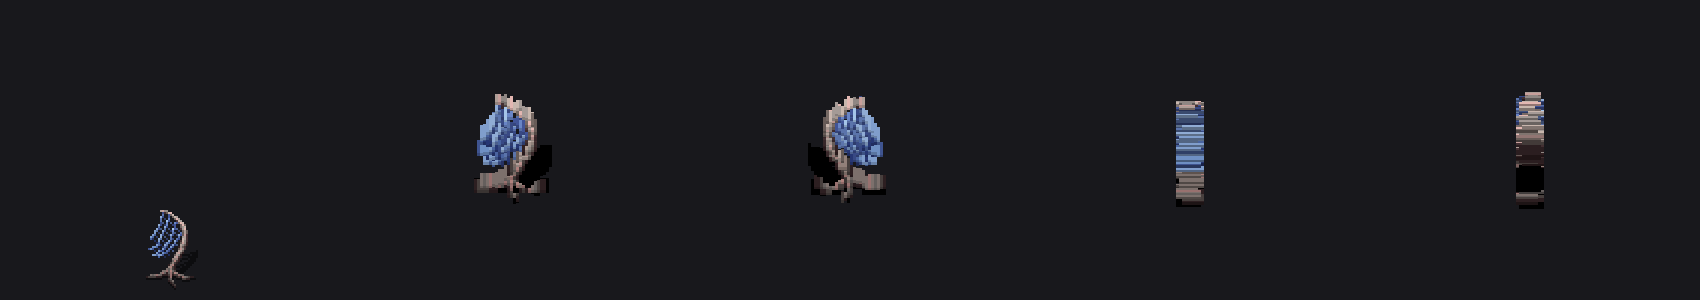
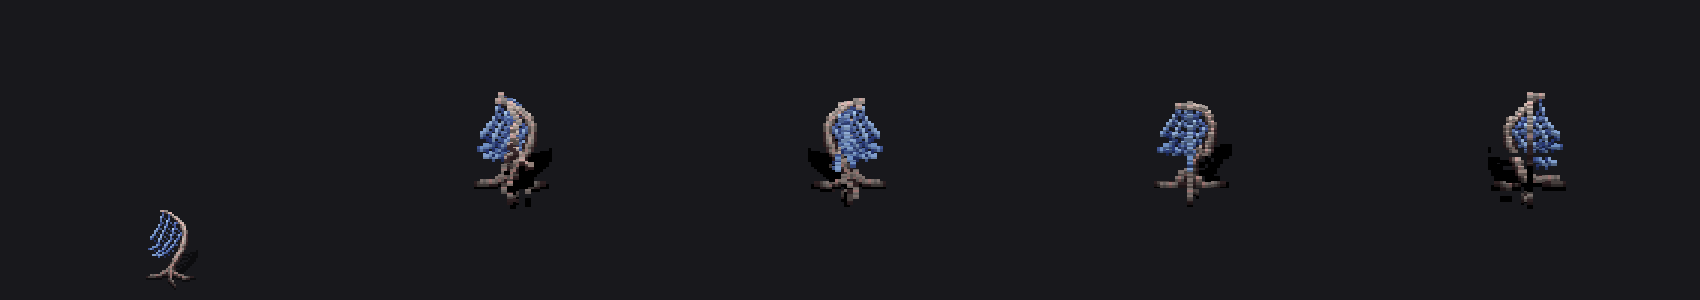
Plant builder -> cross construction (front + side slabs): side views read as the plant profile, not plates

diff --git a/crates/voxelizer/src/props.rs b/crates/voxelizer/src/props.rs
@@ -3325,21 +3325,25 @@ pub const REST_UNIFORM_PINS: &[&str] = &["f_anvil"];
 /// a plant"). Routed to [`plant_model`].
 pub const REST_PLANT_PINS: &[&str] = &["f_alien_tendril", "f_alien_zapper"];
 
-/// A plant: every opaque pixel becomes a short column
-/// in z, centered, whose half-depth grows with the
-/// pixel's distance from its row's center — fronds that
-/// spread sideways in the sprite also spread in depth,
-/// the stalk stays thin. The side view reads as a
-/// tapered plant mass, not a flat cutout. (Own band:
-/// opaque_band's coverage floor collapses thin stalks.)
+/// A plant, built as a cross: the sprite silhouette is
+/// extruded thin in z (the front slab) AND thin in x
+/// along the stalk axis (the side slab, the same
+/// silhouette mapped onto the z axis). From the front
+/// you see the sprite; from the side you see the same
+/// plant profile; in plan the two slabs cross. The
+/// standard voxel-plant construction — an earlier
+/// per-row z-spread read from the side as a stack of
+/// horizontal plates (Joey's zapper review, 2026-11-17:
+/// a plant is not flat, and it is not a ribbon either).
 fn plant_model(sprite: &RgbaImage) -> Option<PropModel> {
     let (w, h) = (sprite.width(), sprite.height());
     let mut rows = (0..h).filter(|&y| (0..w).any(|x| opaque(*sprite.get_pixel(x, y))));
     let band = rows.next()?..rows.last()? + 1;
     let fh = band.end - band.start;
-    let depth = 9u32;
-    let zc = (depth / 2) as i32;
-    let mut m = PropModel::new([w, fh, depth]);
+    let zc = (w / 2) as i32;
+    let mut m = PropModel::new([w, fh, w]);
+    // Side slab first (the front slab overwrites the
+    // crossing column).
     for y in 0..fh {
         let r = band.end - 1 - y;
         let xs: Vec<u32> = (0..w)
@@ -3348,22 +3352,25 @@ fn plant_model(sprite: &RgbaImage) -> Option<PropModel> {
         if xs.is_empty() {
             continue;
         }
-        let cx = xs[xs.len() / 2] as i32;
-        // Phyllotaxis: the z-center spirals slowly with
-        // height and the spread jitters per row, so the
-        // side silhouette is an irregular plant outline,
-        // not a straight ribbon with banded edges.
-        let zoff = (1.6 * (y as f32 * 2.4).sin()).round() as i32;
-        let jitter = 0.75 + hash01(r, 0x91A7) * 0.5;
+        let med = xs[xs.len() / 2] as i32;
         for &x in &xs {
             let px = *sprite.get_pixel(x, r);
-            let s = ((1 + ((x as i32 - cx).abs() as f32 * 0.75).round() as i32) as f32
-                * jitter)
-                .round()
-                .clamp(1.0, 4.0) as i32;
-            for z in (zc + zoff - s)..=(zc + zoff + s) {
-                if z >= 0 && (z as u32) < depth {
-                    m.set(x, y, z as u32, Some(px));
+            for dx in [med - 1, med] {
+                if dx >= 0 && (dx as u32) < w {
+                    m.set(dx as u32, y, x, Some(px));
+                }
+            }
+        }
+    }
+    // Front slab: the silhouette extruded 2 deep at the
+    // center plane.
+    for y in 0..fh {
+        let r = band.end - 1 - y;
+        for x in 0..w {
+            let px = *sprite.get_pixel(x, r);
+            if opaque(px) {
+                for dz in [zc - 1, zc] {
+                    m.set(x, y, dz as u32, Some(px));
                 }
             }
         }
